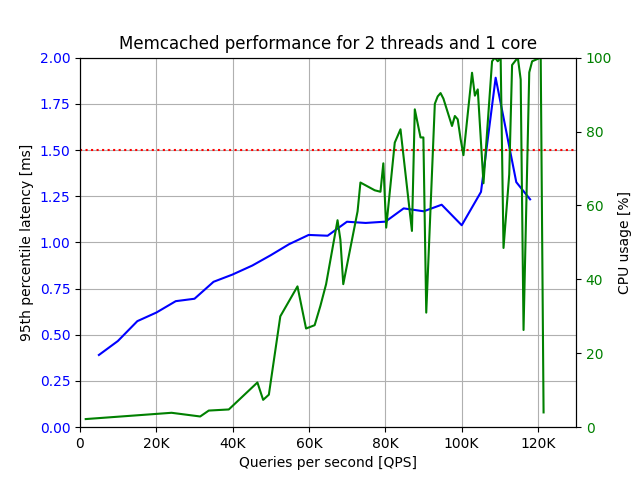
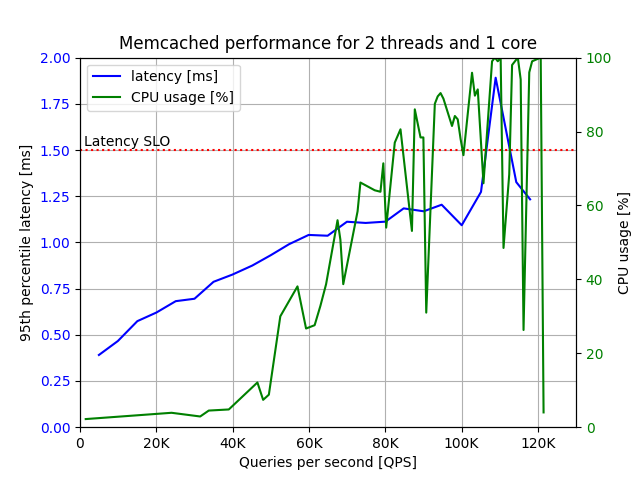
added legend and prepared plots for ex 3

Changed region(s): [[0.125, 0.125, 0.375, 0.2188], [0.125, 0.2812, 0.2812, 0.3125]]

diff --git a/part4/main_3.py b/part4/main_3.py
@@ -10,6 +10,7 @@ errorbars using the parameters ``uplims``, ``lolims`` of `~.pyplot.errorbar`.
 Alternatively, you can use 2xN values to draw errorbars in only one direction.
 """
 
+from cProfile import label
 import math
 import numpy as np
 import matplotlib.pyplot as plt
@@ -26,7 +27,7 @@ def comma(inputs):
 #lowerlimits = [False, True] * 5
 
 # open file with raw data, go to first line with data
-raw_data = open("raw_data_1d.txt", "r")
+raw_data = open("raw_data_2.txt", "r")
 
 def find_start_of_dataset(file):
     raw_data_row = raw_data.readline()
@@ -39,12 +40,14 @@ def find_start_of_dataset(file):
 def create_data_arrays_per_run(first_row, file):
     x_data = []
     y_data = []
+    z_data = []
     while (first_row[:4] == "read"):
         raw_row_array = comma(first_row[4:])
-        x_data.append(raw_row_array[15])
-        y_data.append(raw_row_array[11])
+        z_data.append(raw_row_array[15])    # qps
+        y_data.append(raw_row_array[11])    # 95 latency
+        x_data.append(raw_row_array[17])    # start time
         first_row = file.readline()
-    return (x_data, y_data)
+    return (x_data, y_data, z_data)
 
 # average data across 3 runs
 def create_avg_data_arrays(file):
@@ -52,21 +55,25 @@ def create_avg_data_arrays(file):
     run1 = create_data_arrays_per_run(raw_data_row, file)
     x_data = []
     y_data = []
+    z_data = []
     for i in range(len(run1[0])):
-        x_data.append(run1[0][i])
+        x_data.append(int((run1[0][i] - run1[0][0]) / 1000))
         y_data.append((run1[1][i]) / 1000)
-    return (x_data, y_data)
+        z_data.append(run1[2][i])
+    return (x_data, y_data, z_data)
 
 # get data from raw data for each benchmark
 def create_all_data_arrays(file):
     print("create_all_data_arrays")
     x_data_arrays = []
     y_data_arrays = []
+    z_data_arrays = []
     for i in range(1):
-        (x, y) = create_avg_data_arrays(raw_data)
+        (x, y, z) = create_avg_data_arrays(raw_data)
         x_data_arrays.append(x)
         y_data_arrays.append(y)
-    return (x_data_arrays, y_data_arrays)
+        z_data_arrays.append(z)
+    return (x_data_arrays, y_data_arrays, z_data_arrays)
 
 def create_all_cpu_arrays(file):
     raw_data_row = raw_data.readline()
@@ -107,11 +114,9 @@ def create_all_cpu_arrays_2(file):
     return (x_data, y_data)
 
 print("start program")
-(x2, y2) = create_all_cpu_arrays(raw_data)
-(x1, y1) = create_all_data_arrays(raw_data)
+(x1, y1, z1) = create_all_data_arrays(raw_data)
 print(y1)
-(x2_2, y2_2) = create_all_cpu_arrays_2(raw_data)
-(x1_2, y1_2) = create_all_data_arrays(raw_data)
+(x1_2, y1_2, z1_2) = create_all_data_arrays(raw_data)
 
 
 
@@ -121,31 +126,34 @@ fig, ax = plt.subplots()
 
 plt.plot(x1[0], y1[0], label="latency [ms]", color="blue")
 
-plt.xlabel("Queries per second [QPS]")
+plt.xlabel("Time [s]")
 plt.ylabel("95th percentile latency [ms]")
 plt.yticks(color="blue")
-plt.xlim(0, 130000)
-plt.xticks([0, 20000, 40000, 60000, 80000, 100000, 120000], ['0', '20K', '40K', '60K', '80K', '100K', '120K'])
-plt.ylim(0, 2)
-plt.title("Memcached performance for 2 threads and 1 core")
+plt.xlim(0, 1800)
+plt.xticks([0, 500, 1000, 1500, 1800], 
+            ['0', '500', '1000', '1500', '1800'])
+plt.ylim(0, 2.5)
+plt.title("1A: Memcached performance over time")
 plt.axhline(y=1.5, linestyle='dotted', color="red")
-plt.text(1000, 1.52, "Latency SLO")
+plt.text(1470, 1.52, "Latency SLO")
+plt.axvline(x=100, color="purple", label="fft started")
+plt.text(110, .1, 'fft started')
 #plt.legend(loc="upper left")
 plt.grid()
 
 ax2 = ax.twinx()  # instantiate a second axes that shares the same x-axis
-ax2.set_ylabel('CPU usage [%]')  # we already handled the x-label with ax1
-ax2.plot(x2, y2, color="green", label="CPU usage [%]")
+ax2.set_ylabel('Queries per second [QPS]')  # we already handled the x-label with ax1
+ax2.plot(x1[0], z1[0], color="green", label="QPS")
 ax2.tick_params(axis='y', labelcolor="green")
-ax2.set_ylim([0, 100])
+ax2.set_ylim([0, 100000])
 
 h1, l1 = ax.get_legend_handles_labels()
 h2, l2 = ax2.get_legend_handles_labels()
-ax.legend(h1+h2, l1+l2, loc="upper left")
+ax.legend(h1+h2, l1+l2, loc="upper right")
 
 # Display graph
 
-pylab.savefig('plot4_1d_1.png')
+pylab.savefig('plot4_3_A.png')
 plt.show()
 
 
@@ -154,28 +162,30 @@ fig, ax = plt.subplots()
 
 plt.plot(x1_2[0], y1_2[0], label="latency [ms]", color="blue")
 
-plt.xlabel("Queries per second [QPS]")
-plt.ylabel("95th percentile latency [ms]")
+plt.xlabel("Time[s]")
+plt.ylabel("Number of CPU cores assigned to memcached")
 plt.yticks(color="blue")
-plt.xlim(0, 130000)
-plt.xticks([0, 20000, 40000, 60000, 80000, 100000, 120000], ['0', '20K', '40K', '60K', '80K', '100K', '120K'])
-plt.ylim(0, 2)
-plt.title("Memcached performance for 2 threads and 2 cores")
-plt.axhline(y=1.5, linestyle='dotted', color="red")
-plt.text(1000, 1.52, "Latency SLO")
+plt.xlim(0, 1800)
+plt.xticks([0, 500, 1000, 1500, 1800], 
+            ['0', '500', '1000', '1500', '1800'])
+plt.ylim(0, 4)
+plt.title("1B: Memcached performance over time")
+plt.axvline(x=100, color="purple", label="fft started")
+plt.text(110, .1, 'fft started')
 #plt.legend(loc="upper left")
 plt.grid()
 
 ax2 = ax.twinx()  # instantiate a second axes that shares the same x-axis
-ax2.set_ylabel('CPU usage [%]')  # we already handled the x-label with ax1
-ax2.plot(x2_2, y2_2, color="green", label="CPU usage [%]")
+ax2.set_ylabel('Queries per second [QPS]')  # we already handled the x-label with ax1
+ax2.plot(x1_2[0], z1_2[0], color="green", label="QPS")
 ax2.tick_params(axis='y', labelcolor="green")
-ax2.set_ylim([0, 200])
+ax2.set_ylim([0, 100000])
 
 h1, l1 = ax.get_legend_handles_labels()
 h2, l2 = ax2.get_legend_handles_labels()
-ax.legend(h1+h2, l1+l2, loc="upper left")
+ax.legend(h1+h2, l1+l2, loc="upper right")
+
 # Display graph
 
-pylab.savefig('plot4_1d_2.png')
+pylab.savefig('plot4_3_B.png')
 plt.show()
